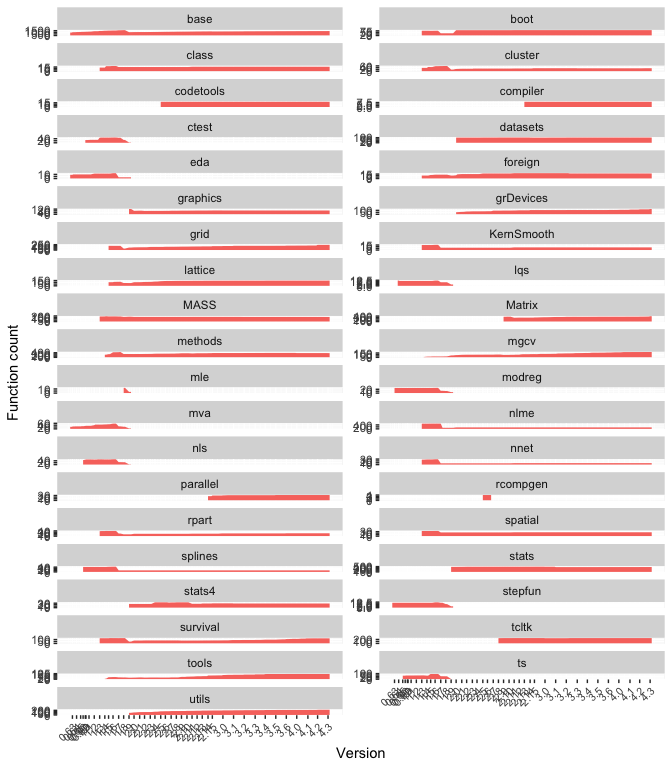
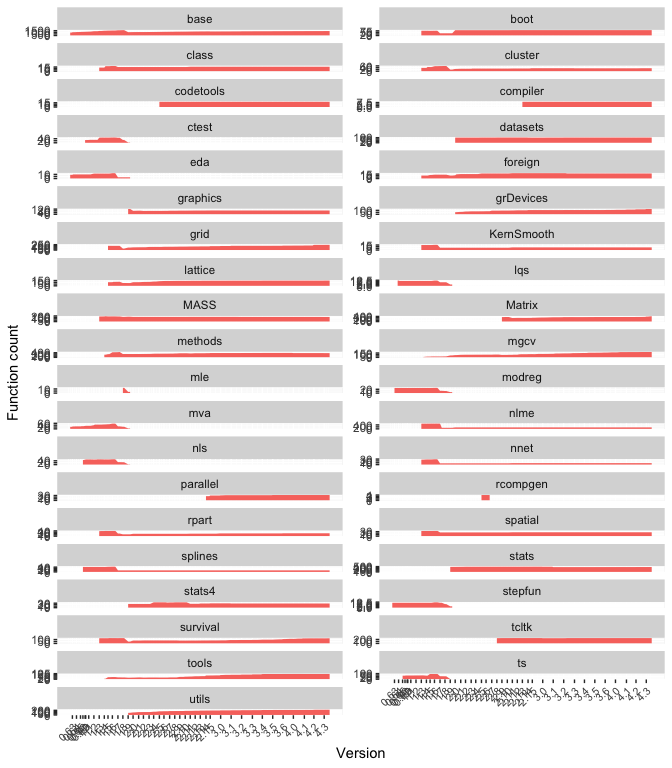
Updates for R 4.3.2

Changed region(s): [[0.5938, 0.875, 0.9688, 0.9375], [0.0938, 0.9062, 0.5, 0.9688]]

diff --git a/README.md b/README.md
@@ -14,7 +14,7 @@ downloads](https://cranlogs.r-pkg.org/badges/rcheology)](https://cran.r-project.
 A data package which lists every command in base R packages since R
 version 0.62.3.
 
-The latest R version covered is 4.3.1.
+The latest R version covered is 4.3.2.
 
 You can view the data online in a [Shiny
 app](https://hughjonesd.shinyapps.io/rcheology/).
@@ -58,15 +58,20 @@ library(rcheology)
 data("rcheology")
 
 rcheology[rcheology$name == "kmeans" & rcheology$Rversion %in% c("1.0.1", "1.9.0", "2.1.0", "3.0.2", "3.2.0", "4.0.2"), ]
-#> # A tibble: 6 × 8
-#>   package name   Rversion type    exported class    generic args                                   
-#>   <chr>   <chr>  <chr>    <chr>   <lgl>    <chr>    <lgl>   <chr>                                  
-#> 1 mva     kmeans 1.0.1    closure TRUE     <NA>     FALSE   "(x, centers, iter.max = 10)"          
-#> 2 stats   kmeans 1.9.0    closure TRUE     function FALSE   "(x, centers, iter.max = 10)"          
-#> 3 stats   kmeans 2.1.0    closure TRUE     function FALSE   "(x, centers, iter.max = 10, nstart = …
-#> 4 stats   kmeans 3.0.2    closure TRUE     function FALSE   "(x, centers, iter.max = 10, nstart = …
-#> 5 stats   kmeans 3.2.0    closure TRUE     function FALSE   "(x, centers, iter.max = 10L, nstart =…
-#> 6 stats   kmeans 4.0.2    closure TRUE     function FALSE   "(x, centers, iter.max = 10L, nstart =…
+#>        package   name Rversion    type exported    class generic
+#> 325491     mva kmeans    1.0.1 closure     TRUE     <NA>   FALSE
+#> 374628   stats kmeans    1.9.0 closure     TRUE function   FALSE
+#> 374632   stats kmeans    2.1.0 closure     TRUE function   FALSE
+#> 374672   stats kmeans    3.0.2 closure     TRUE function   FALSE
+#> 374678   stats kmeans    3.2.0 closure     TRUE function   FALSE
+#> 374703   stats kmeans    4.0.2 closure     TRUE function   FALSE
+#>                                                                                                                              args
+#> 325491                                                                                                (x, centers, iter.max = 10)
+#> 374628                                                                                                (x, centers, iter.max = 10)
+#> 374632                  (x, centers, iter.max = 10, nstart = 1, algorithm = c("Hartigan-Wong",     "Lloyd", "Forgy", "MacQueen"))
+#> 374672   (x, centers, iter.max = 10, nstart = 1, algorithm = c("Hartigan-Wong",     "Lloyd", "Forgy", "MacQueen"), trace = FALSE)
+#> 374678 (x, centers, iter.max = 10L, nstart = 1L, algorithm = c("Hartigan-Wong",     "Lloyd", "Forgy", "MacQueen"), trace = FALSE)
+#> 374703 (x, centers, iter.max = 10L, nstart = 1L, algorithm = c("Hartigan-Wong",     "Lloyd", "Forgy", "MacQueen"), trace = FALSE)
 ```
 
 Latest changes:
@@ -85,9 +90,20 @@ r_penult_obj <- rcheology %>% dplyr::filter(Rversion == r_penultimate)
 r_introduced <- anti_join(r_latest_obj, r_penult_obj, by = c("package", "name"))
 
 r_introduced
-#> # A tibble: 0 × 8
-#> # ℹ 8 variables: package <chr>, name <chr>, Rversion <chr>, type <chr>, exported <lgl>,
-#> #   class <chr>, generic <lgl>, args <chr>
+#> # A tibble: 30 × 8
+#>    package name                      Rversion type  exported class generic args 
+#>    <chr>   <chr>                     <chr>    <chr> <lgl>    <chr> <lgl>   <chr>
+#>  1 Matrix  .M2C                      4.3.2    clos… TRUE     func… FALSE   "(fr…
+#>  2 Matrix  .M2R                      4.3.2    clos… TRUE     func… FALSE   "(fr…
+#>  3 Matrix  .M2T                      4.3.2    clos… TRUE     func… FALSE   "(fr…
+#>  4 Matrix  .M2gen                    4.3.2    clos… TRUE     func… FALSE   "(fr…
+#>  5 Matrix  .M2kind                   4.3.2    clos… TRUE     func… FALSE   "(fr…
+#>  6 Matrix  .M2m                      4.3.2    clos… TRUE     func… FALSE   "(fr…
+#>  7 Matrix  .M2packed                 4.3.2    clos… TRUE     func… FALSE   "(fr…
+#>  8 Matrix  .M2unpacked               4.3.2    clos… TRUE     func… FALSE   "(fr…
+#>  9 Matrix  .M2v                      4.3.2    clos… TRUE     func… FALSE   "(fr…
+#> 10 Matrix  .__C__BunchKaufmanFactor… 4.3.2    S4    TRUE     clas… FALSE    <NA>
+#> # ℹ 20 more rows
 ```
 
 Base functions over time:
